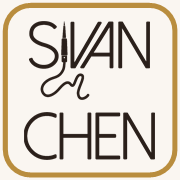
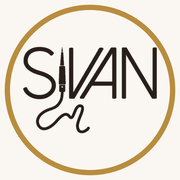
תיקון ושיפור תמונות וסמל לאתר

diff --git a/index.html b/index.html
@@ -28,7 +28,7 @@
 <link rel="icon" type="image/svg+xml" href="assets/img/favicon.svg">
 <link rel="icon" type="image/png" sizes="48x48" href="assets/img/favicon-48.png">
 <link rel="apple-touch-icon" href="assets/img/apple-touch-icon.png">
-<link rel="preload" as="image" href="assets/img/hero-sivan-pigment.webp" fetchpriority="high">
+<link rel="preload" as="image" href="assets/img/hero-sivan-machine.webp" fetchpriority="high">
 
 <link rel="preconnect" href="https://fonts.googleapis.com">
 <link rel="preconnect" href="https://fonts.gstatic.com" crossorigin>
@@ -47,7 +47,7 @@
       "name": "Sivan Chen Beauty Academy – סיון חן איפור קבוע ועיצוב גבות",
       "alternateName": "סיון חן ביוטי אקדמי",
       "url": "https://sivan-eyebrows.co.il/",
-      "image": "https://sivan-eyebrows.co.il/assets/img/hero-sivan-pigment.webp",
+      "image": "https://sivan-eyebrows.co.il/assets/img/hero-sivan-machine.webp",
       "logo": "https://sivan-eyebrows.co.il/assets/img/logo-dark.png",
       "telephone": "+972-50-953-8303",
       "priceRange": "$$",
@@ -178,7 +178,7 @@
         </div>
       </div>
       <figure class="hero-figure reveal reveal-d1">
-        <img src="assets/img/hero-sivan-pigment.webp" alt="סיון חן, מאסטרית לאיפור קבוע, עם פיגמנט מקצועי לאיפור קבוע – Sivan Chen Beauty Academy" width="1200" height="1600" fetchpriority="high">
+        <img src="assets/img/hero-sivan-machine.webp" alt="סיון חן, מאסטרית לאיפור קבוע, עם מכשיר איפור קבוע מקצועי – Sivan Chen Beauty Academy" width="1023" height="1364" fetchpriority="high">
         <p class="hero-badge"><strong>Beauty Academy</strong>סטודיו ואקדמיה · פתח תקווה</p>
       </figure>
     </div>

diff --git a/assets/css/style.css b/assets/css/style.css
@@ -901,6 +901,19 @@ body.nav-open .nav-overlay { opacity: 1; pointer-events: auto; }
   display: flex; flex-wrap: wrap; gap: .6rem 1.6rem; justify-content: space-between; align-items: center;
 }
 .footer-bottom a { color: rgba(250, 246, 241, .7); }
+/* קרדיט בנייה — שם המפתח בזהב עדין, מודגש קלות */
+.footer-bottom .credit { color: rgba(250, 246, 241, .5); }
+.footer-bottom .credit a {
+  color: var(--gold-light);
+  font-weight: 600;
+  letter-spacing: .02em;
+  white-space: nowrap;              /* שהשם לא יישבר לשתי שורות במובייל */
+  text-underline-offset: 3px;
+  transition: color .25s var(--ease-lux);
+}
+.footer-bottom .credit a:hover,
+.footer-bottom .credit a:focus-visible { color: var(--champagne); text-decoration: underline; }
+
 @media (max-width: 719px) {
   .footer-bottom { justify-content: center; text-align: center; }
   .footer-bottom > * { width: 100%; }

diff --git a/book.html b/book.html
@@ -123,7 +123,7 @@
   <section class="section section-blush" aria-labelledby="book-inside-title">
     <div class="wrap split rev">
       <figure class="split-figure reveal">
-        <img src="assets/img/book-look.webp" alt="סיון חן מחזיקה את יומן המסע – 50 ימים להפוך למנטור של עצמך" width="855" height="1280" loading="lazy">
+        <img src="assets/img/book-look-reading.webp" alt="סיון חן קוראת ביומן המסע – 50 ימים להפוך למנטור של עצמך" width="1107" height="1660" loading="lazy">
       </figure>
       <div class="split-body reveal reveal-d1">
         <p class="tag">מה מחכה לך בפנים</p>
